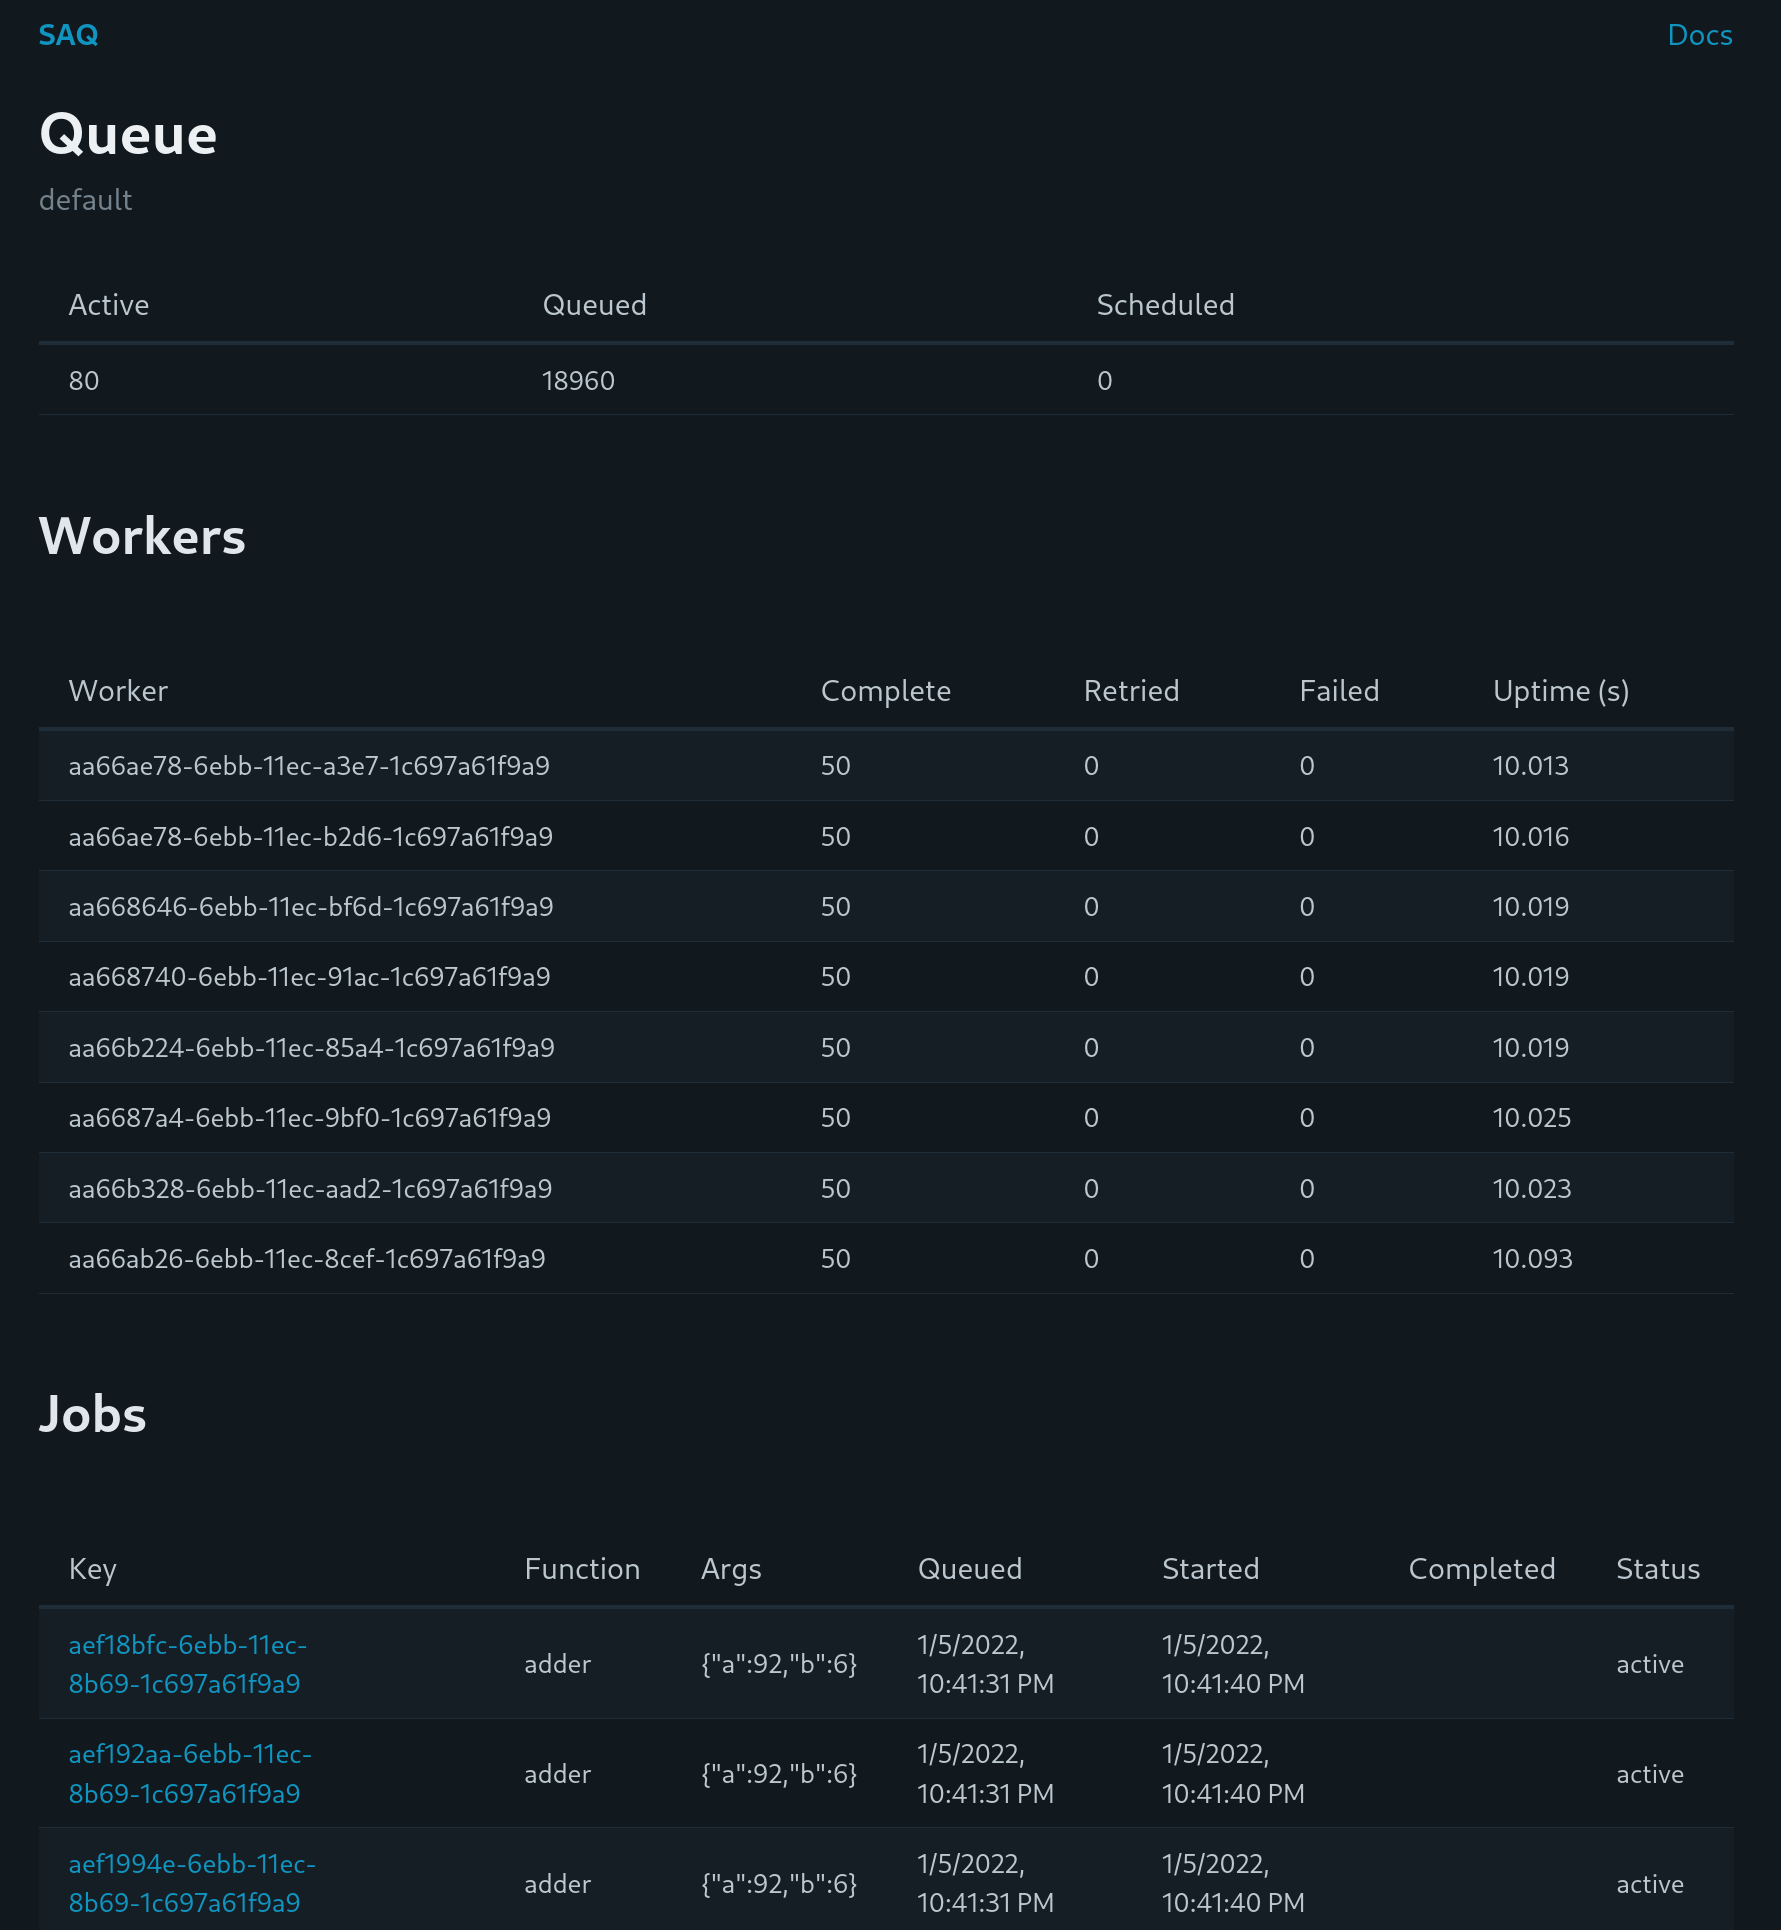
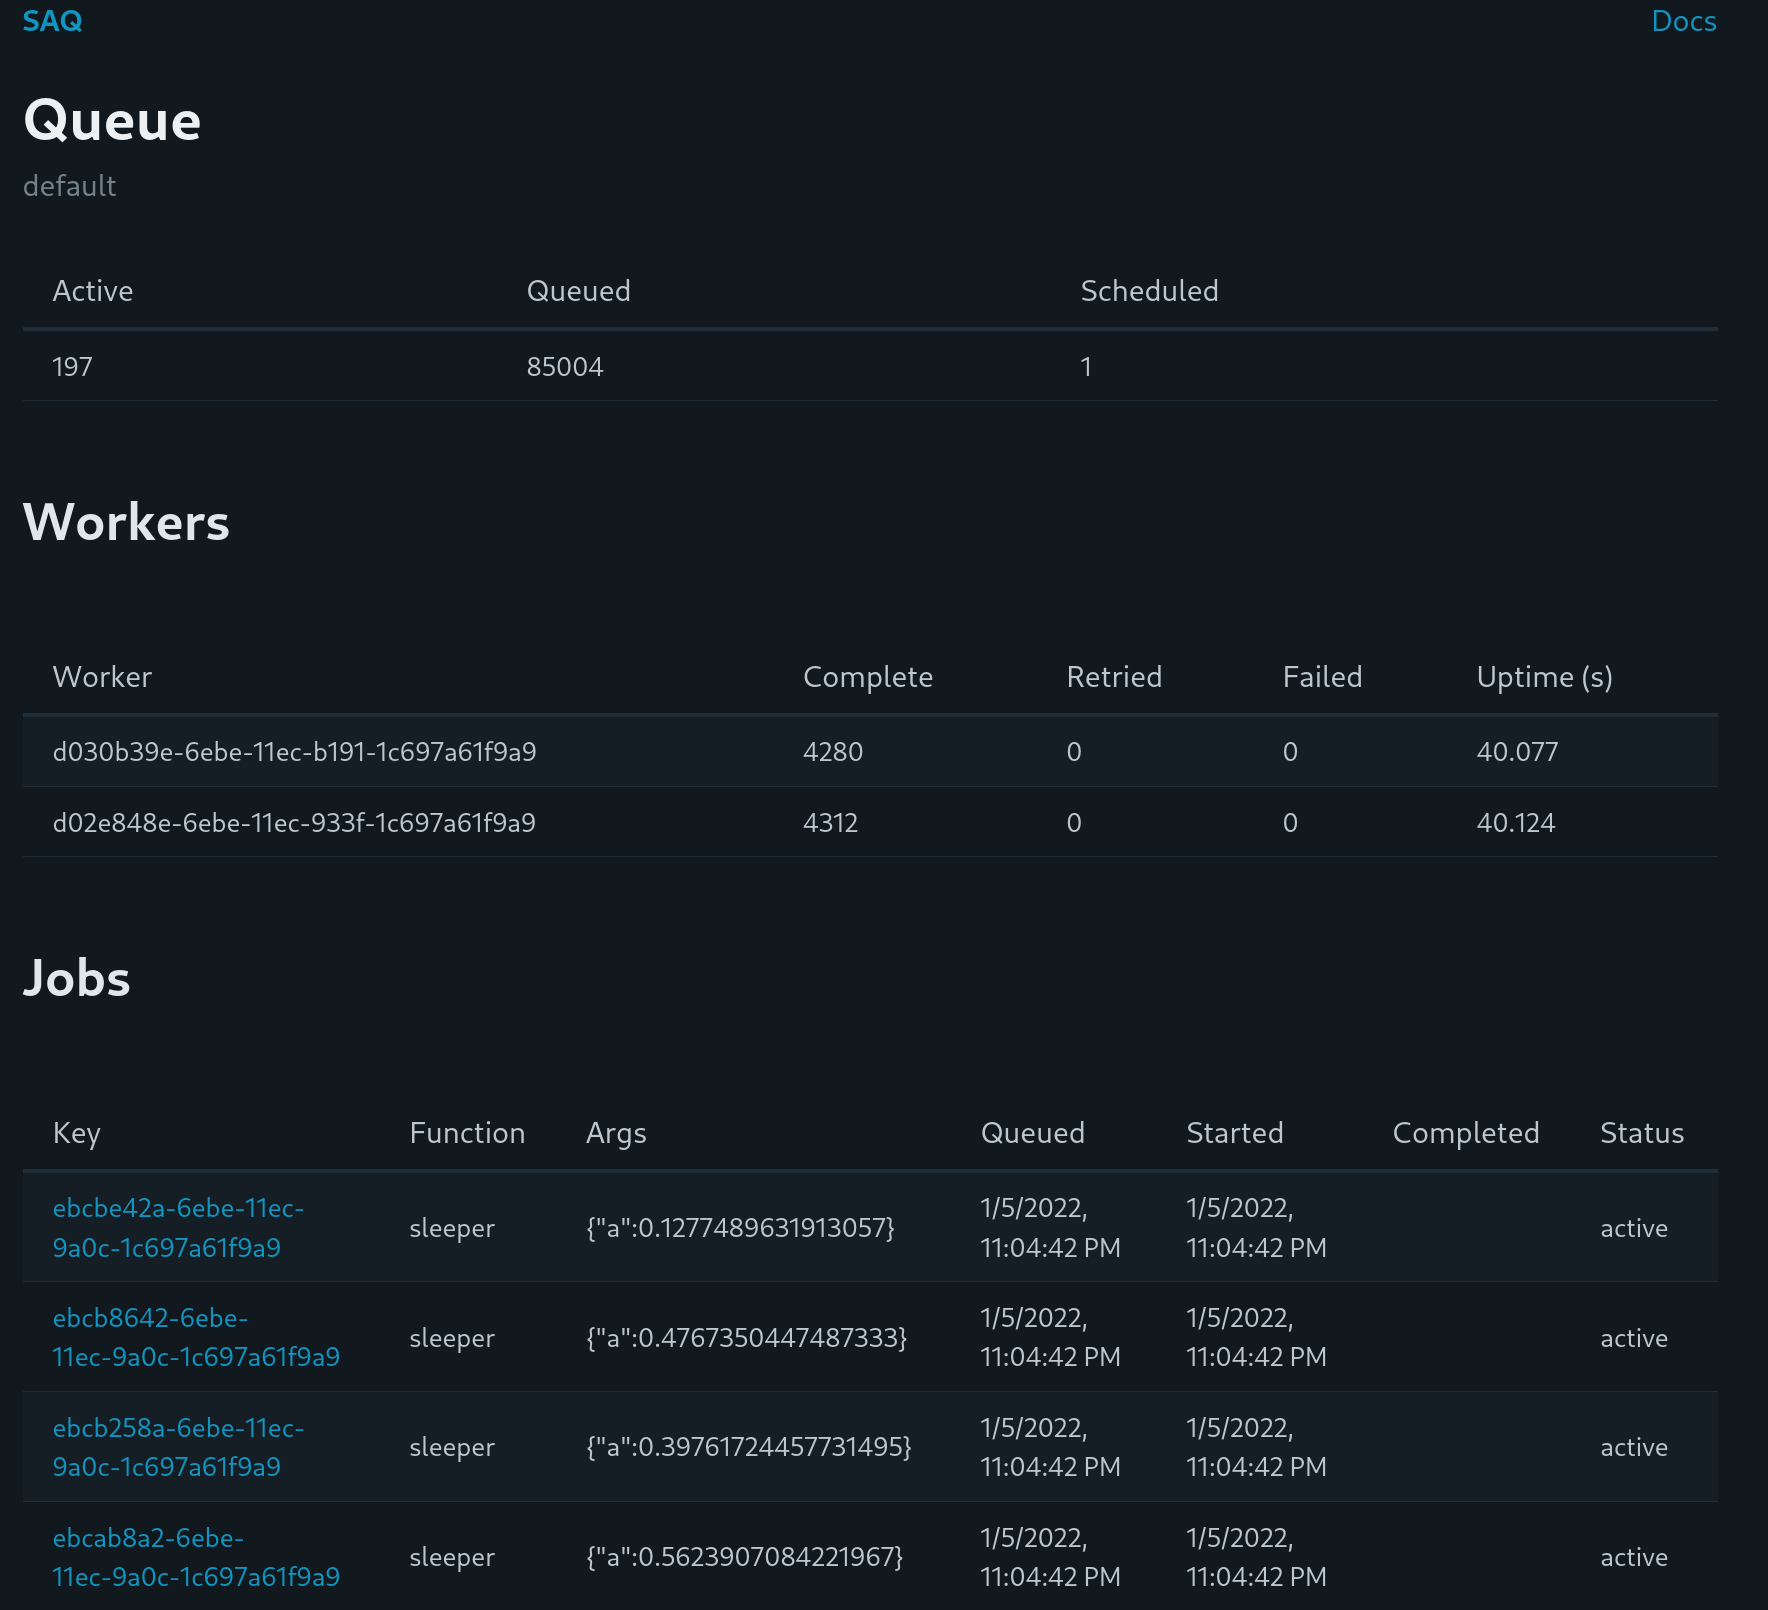
fix example

diff --git a/examples/simple.py b/examples/simple.py
@@ -6,7 +6,7 @@ from saq import Queue
 
 
 async def sleeper(ctx, *, a):
-    await asyncio.sleep(1)
+    await asyncio.sleep(a)
     return {"a": a}
 
 
@@ -17,17 +17,17 @@ async def adder(ctx, *, a, b):
 
 settings = {
     "functions": [sleeper, adder],
-    "concurrency": 10,
+    "concurrency": 100,
 }
 
 async def enqueue(func, **kwargs):
     queue = Queue.from_url("redis://localhost")
     for _ in range(10000):
-        await queue.enqueue(func, **kwargs)
+        await queue.enqueue(func, **{k: v() for k, v in kwargs.items()})
 
 
 if __name__ == "__main__":
     now = time.time()
-    asyncio.run(enqueue("sleeper", a=random.randint(0, 100)))
-    asyncio.run(enqueue("adder", a=random.randint(0, 100), b=random.randint(0, 100)))
+    asyncio.run(enqueue("sleeper", a=random.random))
+    asyncio.run(enqueue("adder", a=random.random, b=random.random))
     print(time.time() - now)
